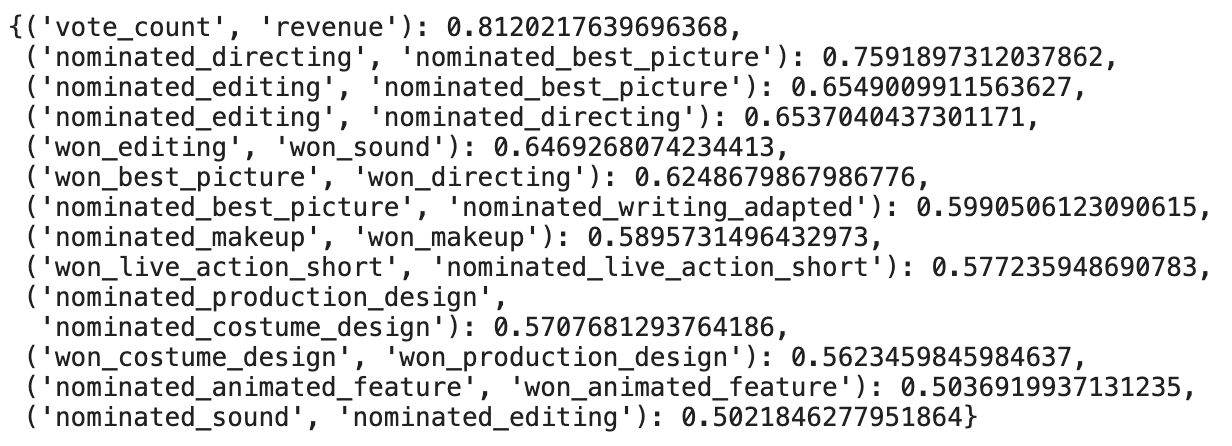
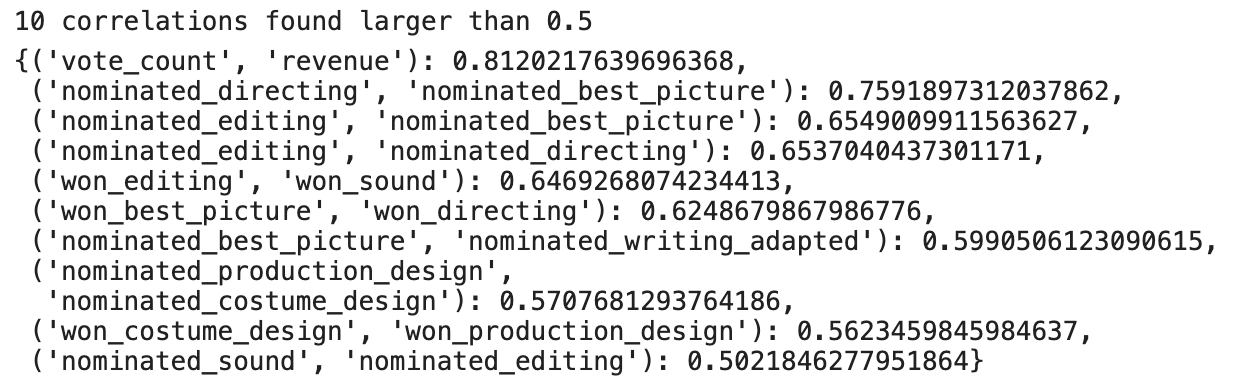
more chapter 2

Changed region(s): [[0.0, 0.0308, 0.987, 0.9846]]

diff --git a/Cap2-Metodologia.tex b/Cap2-Metodologia.tex
@@ -170,7 +170,7 @@
 
             Também ignoramos as correlações entre países de produção. Mesmo as altas entre elas não acrescentavam dados à nossa análise. A coluna que indica filmes produzidos nas Antilhas Holandesas (country\_AN), por exemplo, tem correlação perfeita com a coluna que marca filmes produzidos na Polinésia Francesa (country\_FP).\par
 
-            Experimentamos analisar apenas as 13 correlações maiores que 0.5, mas era possível notar que, mesmo na borda inferior da tabela, onde estavam as correlações menores, ainda era possível ver relações relevantes (por exemplo, de indicações em categorias técnicas, por meio das colunas 'nominated\_sound', e 'nominated\_editing, que apresentam uma correlação de 0.5021.\par
+            Experimentamos analisar apenas as 10 correlações maiores que 0.5, mas era possível notar que, mesmo na borda inferior da tabela, onde estavam as correlações menores, ainda era possível ver relações muito relevantes (por exemplo, de indicações em categorias técnicas, por meio das colunas 'nominated\_sound', e 'nominated\_editing, que apresentam uma correlação de 0.5021.\par
 
             \begin{figure}[htb]
             	\caption{\label{corrs0.5}Correlação entre colunas com valor mínimo de 0.5}
